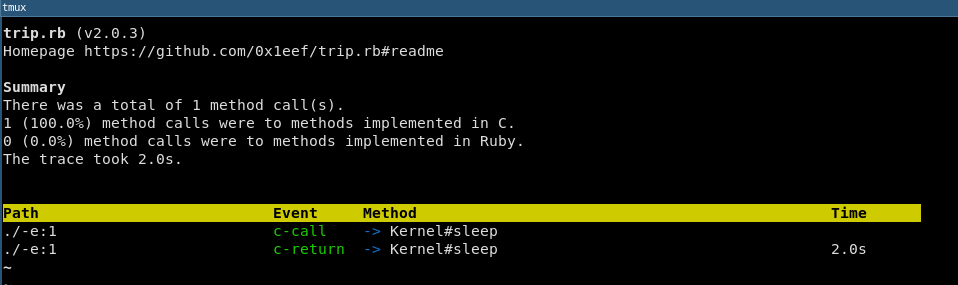
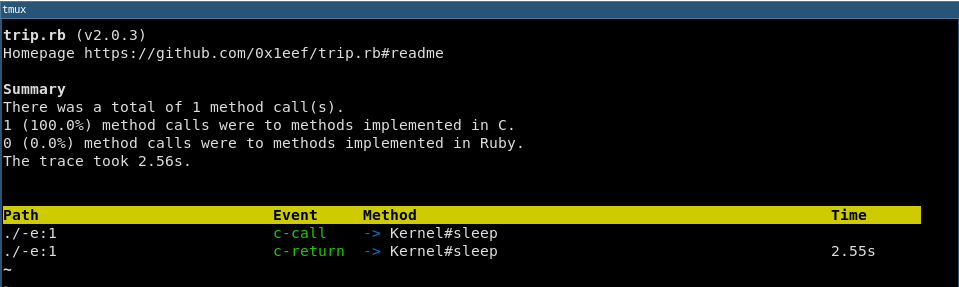
readme: update

diff --git a/README.md b/README.md
@@ -95,7 +95,7 @@ It has to be required it separately:
 require "trip/analyzer"
 ```
 
-It requires the "paint" gem to be installed: 
+Iit requires the "paint" gem to be installed: 
 
 ```ruby
 gem install paint
@@ -123,7 +123,7 @@ The default precision used when printing the execution time of a method is 4.
 It can be changed with the `precision` keyword argument. For example:
 
 ```ruby
-Trip.analyze(precision: 2) { sleep 2 }
+Trip.analyze(precision: 2) { sleep 2.553 }
 ```
 
 shows a stacktrace similar to this:
